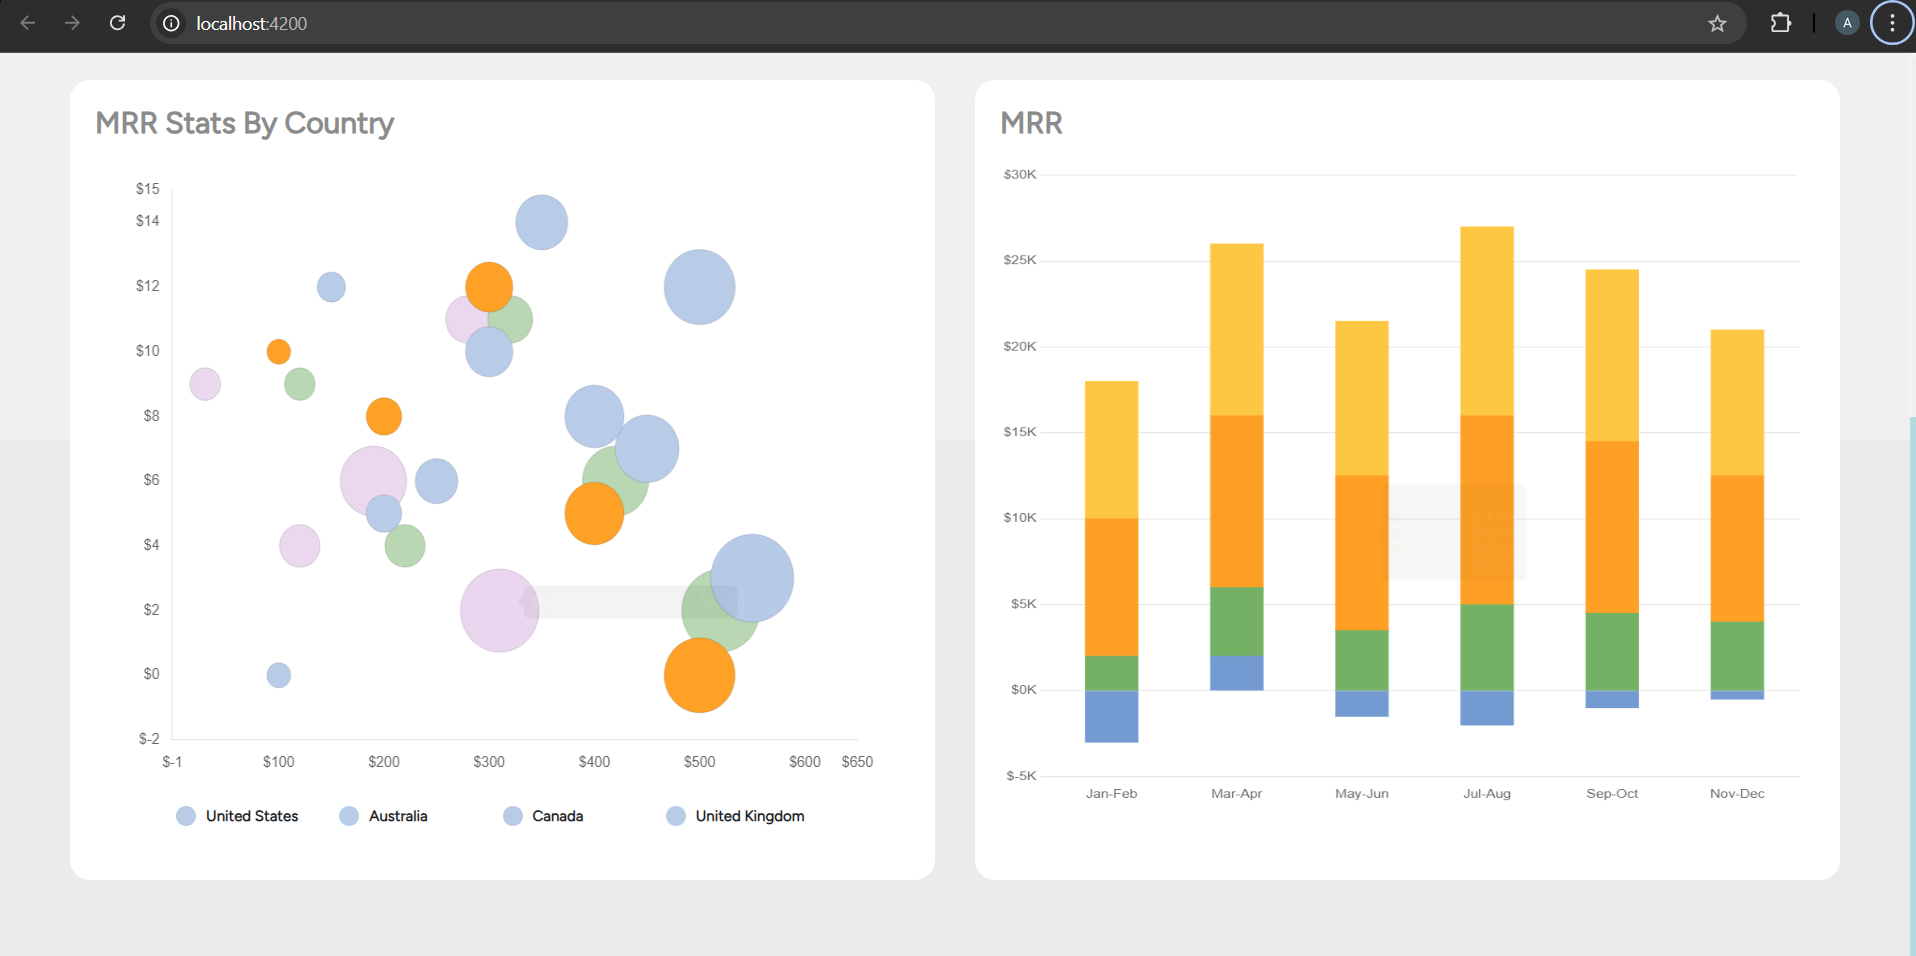
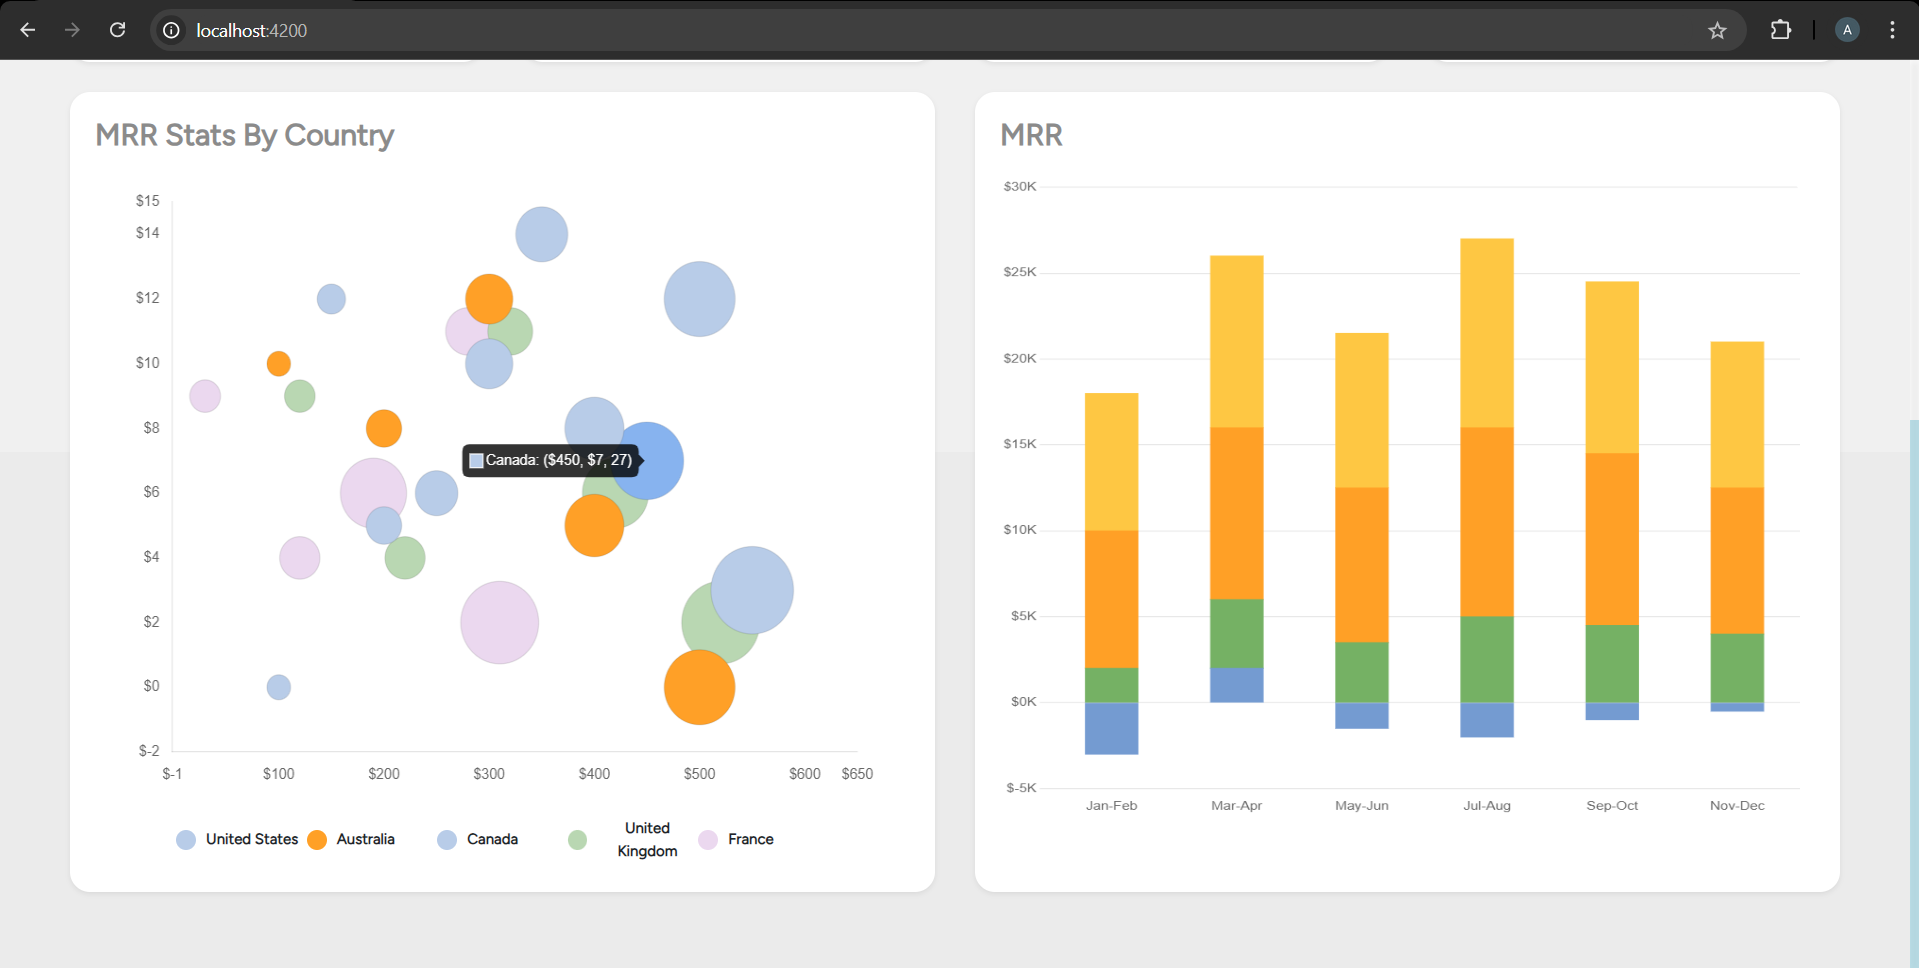
css fixes

diff --git a/src/app/views/dashboard/dashboard.component.html b/src/app/views/dashboard/dashboard.component.html
@@ -2,7 +2,7 @@
     <!-- Date Range -->
     <div class="row">
         <div class="col-md-4 px-5">
-            <div class="date-range-box bg-white px-3 py-1 d-flex flex-column" (click)="openSelectDateRange()">
+            <div class="date-range-box bg-white px-3 py-1 d-flex flex-column shadow-sm" (click)="openSelectDateRange()">
                 <span class="date-box-t1">Auto Date Range</span>
                 <span class="date-box-t2 d-flex align-items-center gap-2">
                     <img src="../../../assets/icons/calendar-event.svg"> 
@@ -14,7 +14,7 @@
 
     <!-- Stat Matric-->
     <div class="row px-5 mt-3 d-flex g-2">
-        <div class="col-md-3 stat-container bg-white ">
+        <div class="col-md-3 stat-container bg-white shadow-sm">
             <div class="stat-card-header m-3">
                 <label>New Wins</label>
             </div>
@@ -26,7 +26,7 @@
                 <label class="body-label">vs prev 30 days</label>
             </div>
         </div>
-        <div class="col-md-3 stat-container bg-white">
+        <div class="col-md-3 stat-container bg-white shadow-sm">
             <div class="stat-card-header m-3">
                 <label>Trial Win Rate</label>
             </div>
@@ -40,7 +40,7 @@
                 <label class="body-label">vs prev 30 days</label>
             </div>
         </div>
-        <div class="col-md-3 stat-container bg-white">
+        <div class="col-md-3 stat-container bg-white shadow-sm">
             <div class="stat-card-header m-3">
                 <label>New MRR</label>
             </div>
@@ -54,7 +54,7 @@
                 <label class="body-label">vs prev 30 days</label>
             </div>
         </div>
-        <div class="col-md-3 stat-container bg-white">
+        <div class="col-md-3 stat-container bg-white shadow-sm">
             <div class="stat-card-header m-3">
                 <label>Page Views</label>
             </div>
@@ -66,7 +66,7 @@
 
     <!-- Stat Charts-->
     <div class="row px-5 mt-3 mb-5 d-flex g-2 ">
-        <div class="col-md-6 chart-container bg-white">
+        <div class="col-md-6 chart-container bg-white shadow-sm">
             <div class="char-card-header m-3">
                 <label>MRR Stats By Country</label>
                 <app-bubble-chart [bubbleData]="this.bubbleData"></app-bubble-chart>
@@ -74,25 +74,29 @@
             <div class="row d-flex justify-content-center align-items-center">
                 <div class="legend-containe mx-0 px-0 d-flex align-items-center">
                     <div class="col country mx-0 px-0 d-flex align-items-center">
-                    <span class="circle-b"></span>
-                    <label>United States</label>
+                        <span class="circle-b us"></span>
+                        <label>United States</label>
                     </div>
                     <div class="col country mx-0 px-0 d-flex align-items-center">
-                    <span class="circle-b"></span>
-                    <label>Australia</label>
+                        <span class="circle-b aus"></span>
+                        <label>Australia</label>
                     </div>
                     <div class="col country mx-0 px-0 d-flex align-items-center">
-                    <span class="circle-b"></span>
-                    <label>Canada</label>
+                        <span class="circle-b can"></span>
+                        <label>Canada</label>
                     </div>
                     <div class="col country mx-0 px-0 d-flex align-items-center">
-                    <span class="circle-b"></span>
-                    <label>United Kingdom</label>
+                        <span class="circle-b uk"></span>
+                        <label>United Kingdom</label>
+                    </div>
+                    <div class="col country mx-0 px-0 d-flex align-items-center">
+                        <span class="circle-b fr"></span>
+                        <label>France</label>
                     </div>
                 </div>
               </div>
         </div>
-        <div class="col-md-6 chart-container bg-white">
+        <div class="col-md-6 chart-container bg-white shadow-sm">
             <div class="char-card-header m-3">
                 <label>MRR</label>
             </div>

diff --git a/src/app/components/date-range-picker/date-range-picker.component.html b/src/app/components/date-range-picker/date-range-picker.component.html
@@ -4,7 +4,7 @@
         <div class="col-6 w-50">
           <h4 class="modal-title pull-left">Date Range <em class="fa fa-warning fa-md text-warning"></em></h4>
         </div>
-        <div class="col-6 w-50 d-flex flex-row-reverse">
+        <div class="col-6 w-50 d-flex flex-row-reverse mx-0 px-0">
           <button type="button" class="btn btn-secondary" aria-label="Close" (click)="bsModalRef.hide()">
             <span aria-hidden="true">&times;</span>
           </button>

diff --git a/src/app/views/dashboard/dashboard.component.scss b/src/app/views/dashboard/dashboard.component.scss
@@ -94,8 +94,29 @@
     width: 1rem;
     height: 1rem;
     border-radius: 50%;
-    background-color: #b8cce8; /* Default color, adjust as needed */
     margin-right: 0.5rem;
-  }
+}
+
+.circle-b.us {
+    background-color: #b8cce8;
+}
+
+.circle-b.aus {
+    background-color: #ffa027;
+}
+
+.circle-b.can {
+    background-color: #b8cce8;
+}
+
+.circle-b.uk {
+    background-color: #b9d7b2;
+}
+
+.circle-b.fr {
+    background-color: #ebd8ef;
+}
+
+
 }
 

diff --git a/README.md b/README.md
@@ -45,3 +45,4 @@ To get more help on the Angular CLI use `ng help` or go check out the [Angular C
 
 ![alt text](image.png)
 ![alt text](image-1.png)
+![alt text](image-3.png)
